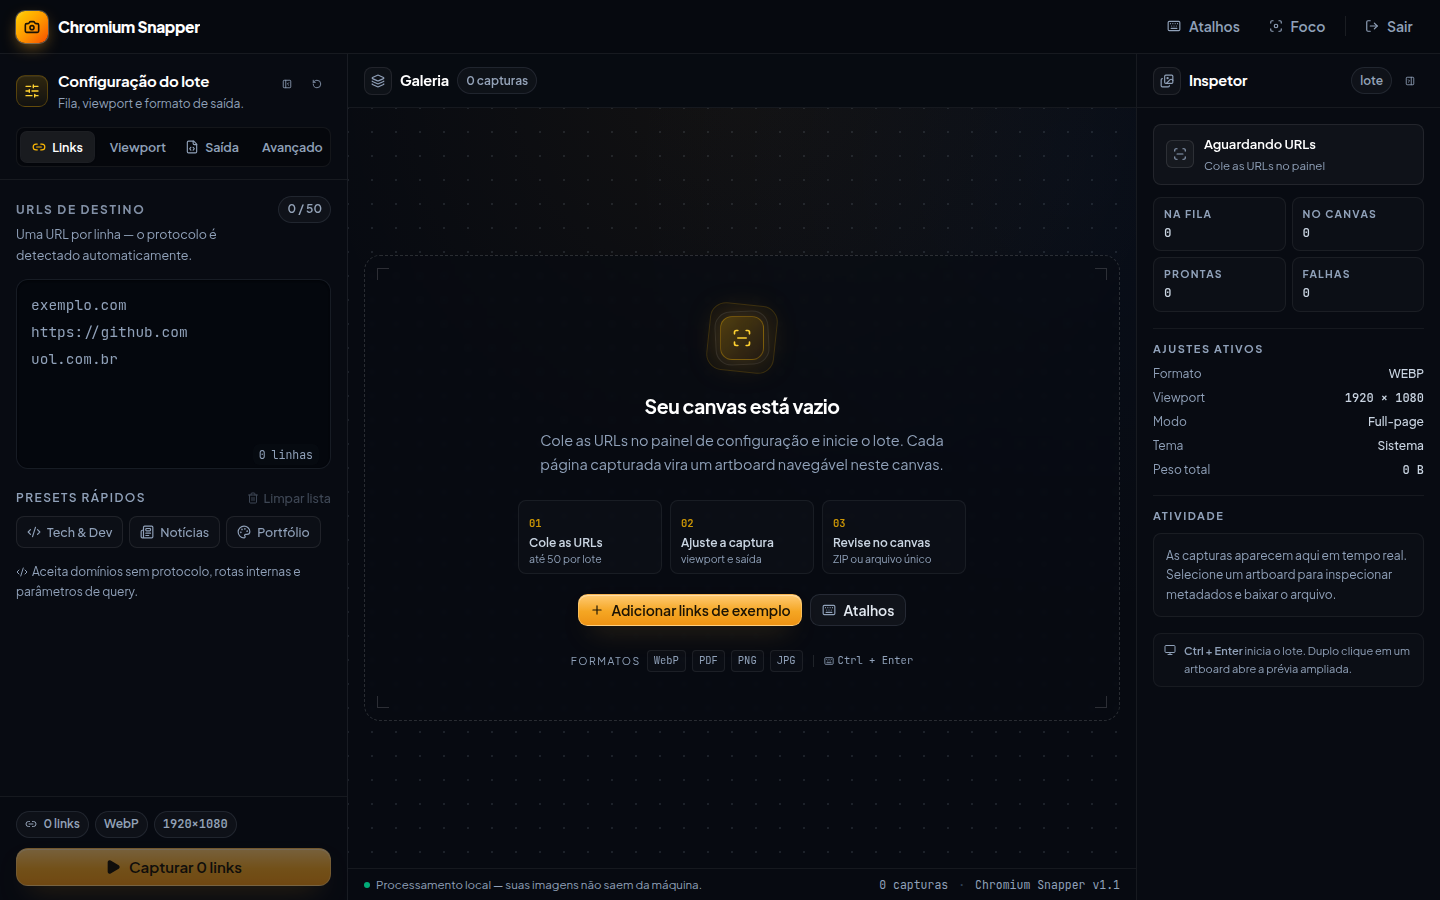
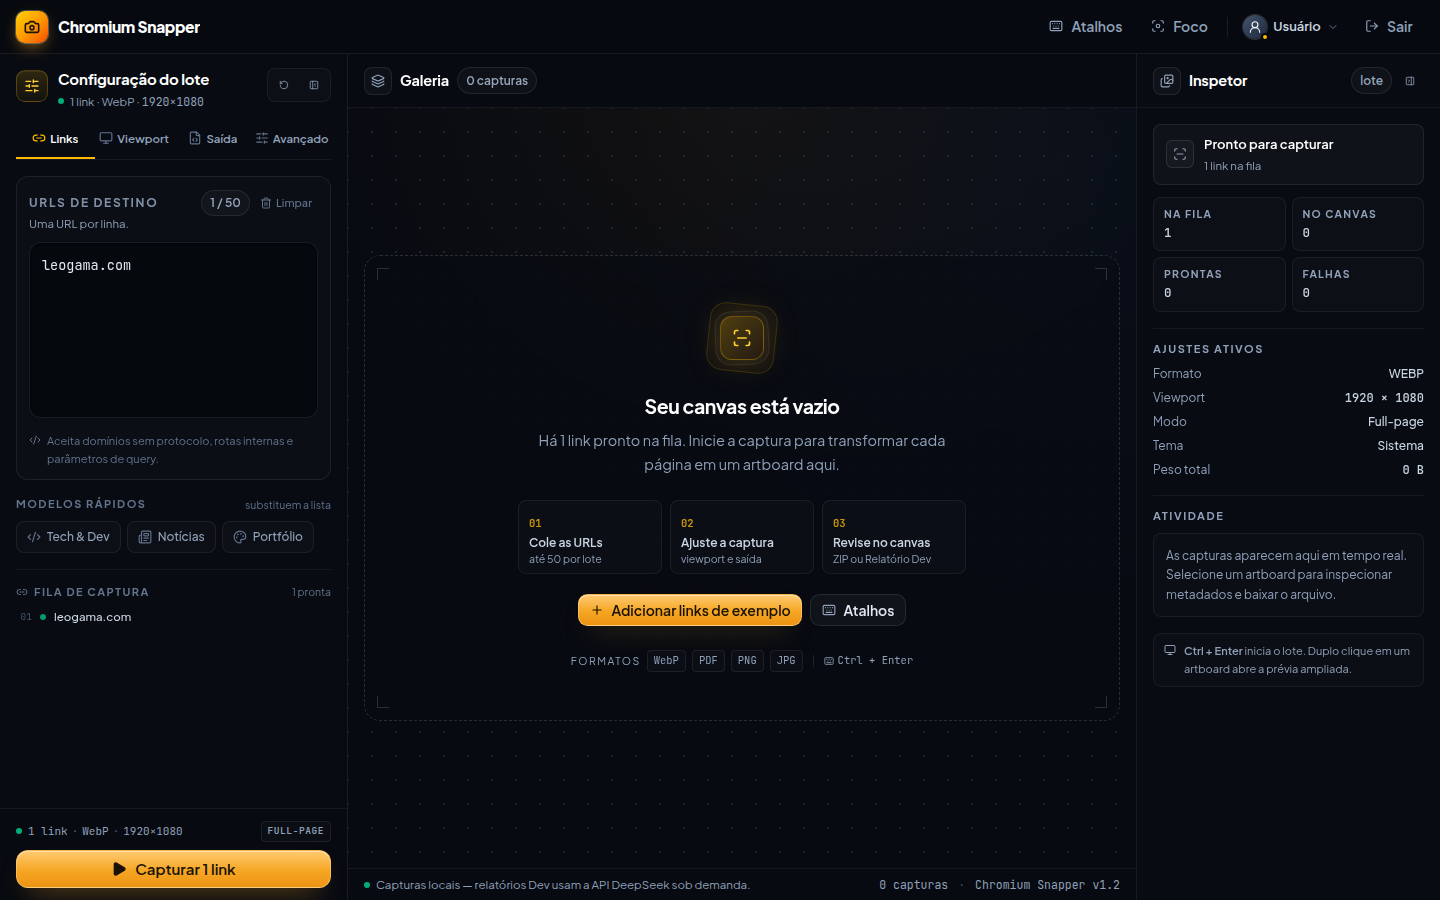
layout de sidebar

diff --git a/src/components/ConfigPanel.tsx b/src/components/ConfigPanel.tsx
@@ -39,6 +39,8 @@ import {
   clamp,
   countDuplicates,
   dedupeUrls,
+  hostOf,
+  pathOf,
   previewFileName,
   type CaptureSettings,
   type ColorScheme,
@@ -142,27 +144,50 @@ export function ConfigPanel({
       aria-label="Configuração da captura"
     >
       {/* Header */}
-      <div className="shrink-0 border-b border-white/[0.06] px-4 pb-3 pt-4">
-        <div className="flex items-start justify-between gap-3">
-          <div className="flex min-w-0 items-center gap-2.5">
-            <span className="flex h-8 w-8 shrink-0 items-center justify-center rounded-[9px] border border-amber-400/25 bg-gradient-to-b from-amber-400/[0.16] to-amber-400/[0.04] text-amber-300 shadow-[inset_0_1px_0_rgba(255,255,255,0.06)]">
+      <div className="shrink-0 px-4 pt-3.5">
+        <div className="flex items-start justify-between gap-2.5">
+          <div className="flex min-w-0 items-start gap-2.5">
+            <span className="mt-0.5 flex h-8 w-8 shrink-0 items-center justify-center rounded-[9px] border border-amber-400/25 bg-gradient-to-b from-amber-400/[0.16] to-amber-400/[0.04] text-amber-300 shadow-[inset_0_1px_0_rgba(255,255,255,0.06)]">
               <SlidersHorizontal className="h-4 w-4" />
             </span>
             <div className="min-w-0">
               <h2 className="truncate text-[15px] font-bold tracking-[-0.01em] text-white">
                 Configuração do lote
               </h2>
-              <p className="mt-0.5 truncate text-[12px] text-slate-400">
-                Fila, viewport e formato de saída.
+              <p className="mt-0.5 flex min-w-0 items-center gap-1.5 text-[11.5px] text-slate-400">
+                <span
+                  aria-hidden="true"
+                  className={cn(
+                    'h-1.5 w-1.5 shrink-0 rounded-full',
+                    canRun ? 'bg-emerald-400/80' : 'bg-amber-400/80'
+                  )}
+                />
+                <span className="truncate">
+                  {urls.length} {urls.length === 1 ? 'link' : 'links'} · {formatLabel} ·{' '}
+                  <span className="font-mono">
+                    {settings.width}×{settings.height}
+                  </span>
+                </span>
               </p>
             </div>
           </div>
-          <div className="flex shrink-0 items-center gap-0.5">
+
+          <div className="flex shrink-0 items-center gap-0.5 rounded-lg border border-white/[0.06] bg-white/[0.02] p-0.5">
+            <button
+              type="button"
+              onClick={onReset}
+              disabled={isRunning}
+              className="btn btn-ghost btn-icon h-7 w-7 rounded-md text-slate-400 hover:text-white"
+              title="Restaurar configurações padrão"
+              aria-label="Restaurar configurações padrão"
+            >
+              <RotateCcw className="h-3.5 w-3.5" />
+            </button>
             {onCollapse && (
               <button
                 type="button"
                 onClick={onCollapse}
-                className="btn btn-ghost btn-icon hidden h-7 w-7 text-slate-400 hover:text-slate-200 lg:inline-flex"
+                className="btn btn-ghost btn-icon hidden h-7 w-7 rounded-md text-slate-400 hover:text-white lg:inline-flex"
                 title="Recolher configuração"
                 aria-label="Recolher configuração"
                 aria-controls="config-panel"
@@ -171,21 +196,11 @@ export function ConfigPanel({
                 <PanelLeftClose className="h-4 w-4" />
               </button>
             )}
-            <button
-              type="button"
-              onClick={onReset}
-              disabled={isRunning}
-              className="btn btn-ghost btn-icon h-7 w-7 text-slate-400 hover:text-slate-200"
-              title="Restaurar configurações padrão"
-              aria-label="Restaurar configurações padrão"
-            >
-              <RotateCcw className="h-3.5 w-3.5" />
-            </button>
             {onClose && (
               <button
                 type="button"
                 onClick={onClose}
-                className="btn btn-ghost btn-icon h-7 w-7 text-slate-400 hover:text-white lg:hidden"
+                className="btn btn-ghost btn-icon h-7 w-7 rounded-md text-slate-400 hover:text-white lg:hidden"
                 aria-label="Fechar configuração"
               >
                 <X className="h-4 w-4" />
@@ -198,7 +213,8 @@ export function ConfigPanel({
         <div
           role="tablist"
           aria-label="Seções de configuração"
-          className="mt-3.5 grid grid-cols-4 gap-1 rounded-lg border border-white/[0.06] bg-black/30 p-1"
+          aria-orientation="horizontal"
+          className="mt-3 flex border-b border-white/[0.06]"
         >
           {CONFIG_TABS.map((item, index) => {
             const Icon = item.icon;
@@ -218,19 +234,25 @@ export function ConfigPanel({
                 onClick={() => onTabChange(item.id)}
                 onKeyDown={(event) => handleTabKeyDown(event, index)}
                 className={cn(
-                  'relative flex items-center justify-center gap-1.5 rounded-md px-1.5 py-1.5 text-[12.5px] font-semibold transition-colors',
+                  'relative flex min-w-0 flex-1 items-center justify-center gap-1 border-b-2 px-0.5 pb-2.5 pt-2 text-[11.5px] font-semibold transition-colors',
                   active
-                    ? 'bg-white/[0.08] text-white shadow-sm ring-1 ring-white/10'
-                    : 'text-slate-400 hover:bg-white/[0.03] hover:text-slate-300'
+                    ? 'border-amber-400 text-white'
+                    : 'border-transparent text-slate-400 hover:text-slate-200'
                 )}
               >
                 <Icon
-                  className={cn('h-3.5 w-3.5', active ? 'text-amber-400' : 'text-slate-400')}
+                  className={cn(
+                    'h-3.5 w-3.5 shrink-0',
+                    active ? 'text-amber-400' : 'text-slate-500'
+                  )}
                 />
-                <span>{item.label}</span>
+                <span className="truncate">{item.label}</span>
                 {item.id === 'advanced' &&
                   (settings.customHeaders.trim() || settings.customCookies.trim()) && (
-                    <span className="absolute right-1 top-1 h-1.5 w-1.5 rounded-full bg-emerald-400" />
+                    <span
+                      aria-hidden="true"
+                      className="h-1.5 w-1.5 rounded-full bg-emerald-400"
+                    />
                   )}
               </button>
             );
@@ -273,21 +295,27 @@ export function ConfigPanel({
       </div>
 
       {/* Footer / run bar */}
-      <div className="shrink-0 border-t border-white/[0.06] bg-[#070a11]/80 px-4 py-3.5">
-        <div className="mb-2.5 flex items-center justify-between gap-2">
-          <div className="flex min-w-0 flex-wrap items-center gap-1.5">
-            <span className={cn('chip', canRun ? 'chip-amber' : '')}>
-              <Link2 />
+      <div className="shrink-0 border-t border-white/[0.06] bg-[#070a11]/80 px-4 py-3">
+        <div className="mb-2 flex items-center justify-between gap-2 text-[11px] text-slate-400">
+          <span className="flex min-w-0 items-center gap-1.5">
+            <span
+              aria-hidden="true"
+              className={cn(
+                'h-1.5 w-1.5 shrink-0 rounded-full',
+                canRun ? 'bg-emerald-400/80' : 'bg-slate-500'
+              )}
+            />
+            <span className="truncate font-mono">
               {urls.length} {urls.length === 1 ? 'link' : 'links'}
-            </span>
-            <span className="chip">{formatLabel}</span>
-            <span className="chip font-mono">
+              <span className="px-1 text-slate-600">·</span>
+              {formatLabel}
+              <span className="px-1 text-slate-600">·</span>
               {settings.width}×{settings.height}
             </span>
-            <span className="chip hidden 2xl:inline-flex">
-              {settings.fullPage ? 'Full-page' : 'Viewport'}
-            </span>
-          </div>
+          </span>
+          <span className="shrink-0 rounded border border-white/[0.07] bg-white/[0.02] px-1.5 py-0.5 font-mono text-[9.5px] font-semibold uppercase tracking-[0.06em] text-slate-400">
+            {settings.fullPage ? 'full-page' : 'viewport'}
+          </span>
         </div>
 
         <button
@@ -316,7 +344,6 @@ export function ConfigPanel({
             </>
           )}
         </button>
-
       </div>
     </section>
   );
@@ -342,45 +369,62 @@ function LinksTab({
   isRunning: boolean;
 }) {
   return (
-    <div className="space-y-3.5">
-      <div className="flex items-start justify-between gap-3">
-        <div>
-          <label htmlFor="url-list" className="label">
-            URLs de destino
-          </label>
-          <p className="mt-1 text-[12.5px] leading-relaxed text-slate-400">
-            Uma URL por linha — o protocolo é detectado automaticamente.
-          </p>
+    <div className="space-y-4">
+      <div className="rounded-xl border border-white/[0.07] bg-white/[0.015] p-3">
+        <div className="mb-2 flex items-start justify-between gap-2">
+          <div className="min-w-0">
+            <label htmlFor="url-list" className="label">
+              URLs de destino
+            </label>
+            <p className="mt-0.5 text-[11.5px] leading-relaxed text-slate-400">
+              Uma URL por linha.
+            </p>
+          </div>
+          <div className="flex shrink-0 items-center gap-1">
+            <span className={cn('chip', overLimit && 'chip-rose')}>
+              {urls.length} / {MAX_URLS}
+            </span>
+            <button
+              type="button"
+              onClick={onClearUrls}
+              disabled={isRunning || rawUrls.length === 0}
+              className="flex h-7 items-center gap-1 rounded-md px-1.5 text-[11px] font-medium text-slate-500 transition-colors hover:bg-rose-400/10 hover:text-rose-300 disabled:cursor-not-allowed disabled:opacity-40"
+              title="Limpar lista de URLs"
+              aria-label="Limpar lista de URLs"
+            >
+              <Trash2 className="h-3 w-3" />
+              Limpar
+            </button>
+          </div>
         </div>
-        <span className={cn('chip', overLimit && 'chip-rose')}>
-          {urls.length} / {MAX_URLS}
-        </span>
-      </div>
 
-      <div className="relative">
         <textarea
           id="url-list"
           value={rawUrls}
           onChange={(event) => onRawUrlsChange(event.target.value)}
           placeholder={'exemplo.com\nhttps://github.com\nuol.com.br'}
-          rows={8}
+          rows={7}
           spellCheck={false}
           autoCapitalize="none"
           autoCorrect="off"
           disabled={isRunning}
           aria-describedby="url-list-hint"
-          className="field h-[190px] w-full resize-none px-3.5 py-3 font-mono text-[14.5px] leading-[1.85] text-slate-200 placeholder:text-slate-400"
+          className="field h-[176px] w-full resize-none px-3 py-2.5 font-mono text-[13.5px] leading-[1.8] text-slate-200 placeholder:text-slate-400"
         />
-        <div className="pointer-events-none absolute bottom-2.5 right-3 flex items-center gap-1.5 rounded-md bg-[#070b12]/80 px-1.5 py-0.5 font-mono text-[11.5px] text-slate-400 backdrop-blur">
-          <span className={cn(urls.length > 0 ? 'text-amber-400/90' : '')}>{urls.length}</span>
-          <span>linhas</span>
-        </div>
+
+        <p
+          id="url-list-hint"
+          className="mt-2 flex items-start gap-1.5 text-[11px] leading-relaxed text-slate-500"
+        >
+          <Code2 className="mt-0.5 h-3 w-3 shrink-0" />
+          Aceita domínios sem protocolo, rotas internas e parâmetros de query.
+        </p>
       </div>
 
       {(duplicates > 0 || overLimit) && (
         <div
           className={cn(
-            'flex items-start justify-between gap-3 rounded-xl border px-3 py-2 text-[12.5px]',
+            'flex items-start justify-between gap-3 rounded-xl border px-3 py-2 text-[12px]',
             overLimit
               ? 'border-rose-400/25 bg-rose-400/[0.06] text-rose-200'
               : 'border-amber-400/20 bg-amber-400/[0.06] text-amber-200'
@@ -406,19 +450,11 @@ function LinksTab({
       )}
 
       <div>
-        <div className="mb-2 flex items-center justify-between">
-          <span className="text-[12px] font-semibold uppercase tracking-[0.12em] text-slate-400">
-            Presets rápidos
+        <div className="mb-2 flex items-center justify-between gap-2">
+          <span className="text-[11px] font-bold uppercase tracking-[0.13em] text-slate-500">
+            Modelos rápidos
           </span>
-          <button
-            type="button"
-            onClick={onClearUrls}
-            disabled={isRunning || rawUrls.length === 0}
-            className="flex items-center gap-1 text-[12.5px] font-medium text-slate-400 transition-colors hover:text-rose-300 disabled:opacity-40"
-          >
-            <Trash2 className="h-3 w-3" />
-            Limpar lista
-          </button>
+          <span className="text-[10.5px] text-slate-500">substituem a lista</span>
         </div>
         <div className="flex flex-wrap gap-1.5">
           {QUICK_PRESETS.map((preset) => {
@@ -430,9 +466,9 @@ function LinksTab({
                 title={preset.hint}
                 onClick={() => onRawUrlsChange(preset.urls)}
                 disabled={isRunning}
-                className="group inline-flex items-center gap-1.5 rounded-lg border border-white/[0.08] bg-white/[0.02] px-2.5 py-1.5 text-[12.5px] font-medium text-slate-400 transition-colors hover:border-amber-400/30 hover:bg-amber-400/[0.06] hover:text-amber-200 disabled:opacity-50"
+                className="group inline-flex items-center gap-1.5 rounded-lg border border-white/[0.07] bg-white/[0.02] px-2.5 py-1.5 text-[12px] font-medium text-slate-400 transition-colors hover:border-amber-400/30 hover:bg-amber-400/[0.06] hover:text-amber-200 disabled:opacity-50"
               >
-                <Icon className="h-3.5 w-3.5 text-slate-400 transition-colors group-hover:text-amber-400" />
+                <Icon className="h-3.5 w-3.5 text-slate-500 transition-colors group-hover:text-amber-400" />
                 {preset.name}
               </button>
             );
@@ -440,10 +476,40 @@ function LinksTab({
         </div>
       </div>
 
-      <p id="url-list-hint" className="text-[12px] leading-relaxed text-slate-400">
-        <Code2 className="mr-1 inline h-3 w-3 align-[-2px]" />
-        Aceita domínios sem protocolo, rotas internas e parâmetros de query.
-      </p>
+      {urls.length > 0 && (
+        <div className="border-t border-white/[0.06] pt-3.5">
+          <div className="flex items-center justify-between gap-2">
+            <span className="flex items-center gap-1.5 text-[11px] font-bold uppercase tracking-[0.13em] text-slate-500">
+              <Link2 className="h-3 w-3" />
+              Fila de captura
+            </span>
+            <span className="text-[10.5px] text-slate-500">
+              {urls.length} {urls.length === 1 ? 'pronta' : 'prontas'}
+            </span>
+          </div>
+          <ul className="mt-2 space-y-1">
+            {urls.slice(0, 3).map((url, index) => (
+              <li key={`${url}-${index}`} className="flex min-w-0 items-center gap-2">
+                <span className="w-4 shrink-0 text-right font-mono text-[9.5px] text-slate-600">
+                  {String(index + 1).padStart(2, '0')}
+                </span>
+                <span className="h-1.5 w-1.5 shrink-0 rounded-full bg-emerald-400/70" />
+                <span className="min-w-0 truncate text-[11.5px] font-medium text-slate-300">
+                  {hostOf(url)}
+                </span>
+                <span className="min-w-0 truncate text-[11px] text-slate-500">
+                  {pathOf(url)}
+                </span>
+              </li>
+            ))}
+          </ul>
+          {urls.length > 3 && (
+            <p className="mt-1.5 pl-6 text-[10.5px] text-slate-500">
+              +{urls.length - 3} {urls.length - 3 === 1 ? 'URL adicional' : 'URLs adicionais'}
+            </p>
+          )}
+        </div>
+      )}
     </div>
   );
 }
@@ -789,7 +855,7 @@ function OutputTab({
         <div className="mb-1.5 flex items-center justify-between">
           <label htmlFor="naming-pattern" className="label flex items-center gap-1.5">
             <Tag className="h-3 w-3" />
-            Nomenclatura do arquivo
+            Nome do arquivo
           </label>
           <span className="text-[11.5px] text-slate-400">tokens dinâmicos</span>
         </div>

diff --git a/src/App.tsx b/src/App.tsx
@@ -1224,7 +1224,7 @@ export default function App() {
               className="fixed inset-0 top-[54px] z-40 bg-black/65 backdrop-blur-[2px]"
             />
             <aside
-              className="fixed inset-y-0 left-0 z-50 mt-[54px] flex w-[min(92vw,360px)] flex-col border-r border-white/[0.07] bg-[#080b12] shadow-2xl shadow-black/60"
+              className="fixed inset-y-0 left-0 z-50 mt-[54px] flex w-[min(92vw,360px)] flex-col overflow-hidden rounded-r-2xl border-r border-white/[0.07] bg-[#080b12] shadow-2xl shadow-black/60"
               aria-label="Painel de configuração"
             >
               <ConfigPanel

diff --git a/README.md b/README.md
@@ -34,6 +34,7 @@
 - **Canvas profissional**: artboards com prévia, inspetor de metadados, filtros por falha, densidade de grade, prévia com zoom, navegação por teclado, cópia para clipboard, download individual e ZIP gerado no servidor.
 - **Workspace em canvas**: configuração em sidebar, área central de artboards, inspetor contextual persistente a partir de 1280 px (drawer abaixo disso), modo foco (`F`), drawer de configuração no mobile e fila visível com status por URL desde o início do lote.
 - **Painéis retráteis**: configuração e inspetor recolhem para rails com atalhos contextuais; o estado é persistido, o recolher/expandir fica no cabeçalho de cada painel e o inspetor em telas menores é aberto pela toolbar do canvas.
+- **Painel de configuração enxuto**: resumo vivo no cabeçalho (links, formato e viewport), abas com indicador âmbar, URLs agrupadas em card com contagem e limpeza contextual, fila de captura parseada e rodapé fixo com resumo do lote e CTA de captura.
 - **Persistência local** de configurações e URLs, atalhos de teclado e acessibilidade (foco visível, focus trap, `aria-live` e `prefers-reduced-motion`).
 - **Capturas 100% locais**: nenhuma imagem de captura sai da máquina. Somente quando o usuário solicita um **Relatório Dev** o dossiê técnico e as imagens da viewport são enviados à API DeepSeek configurada.
 
